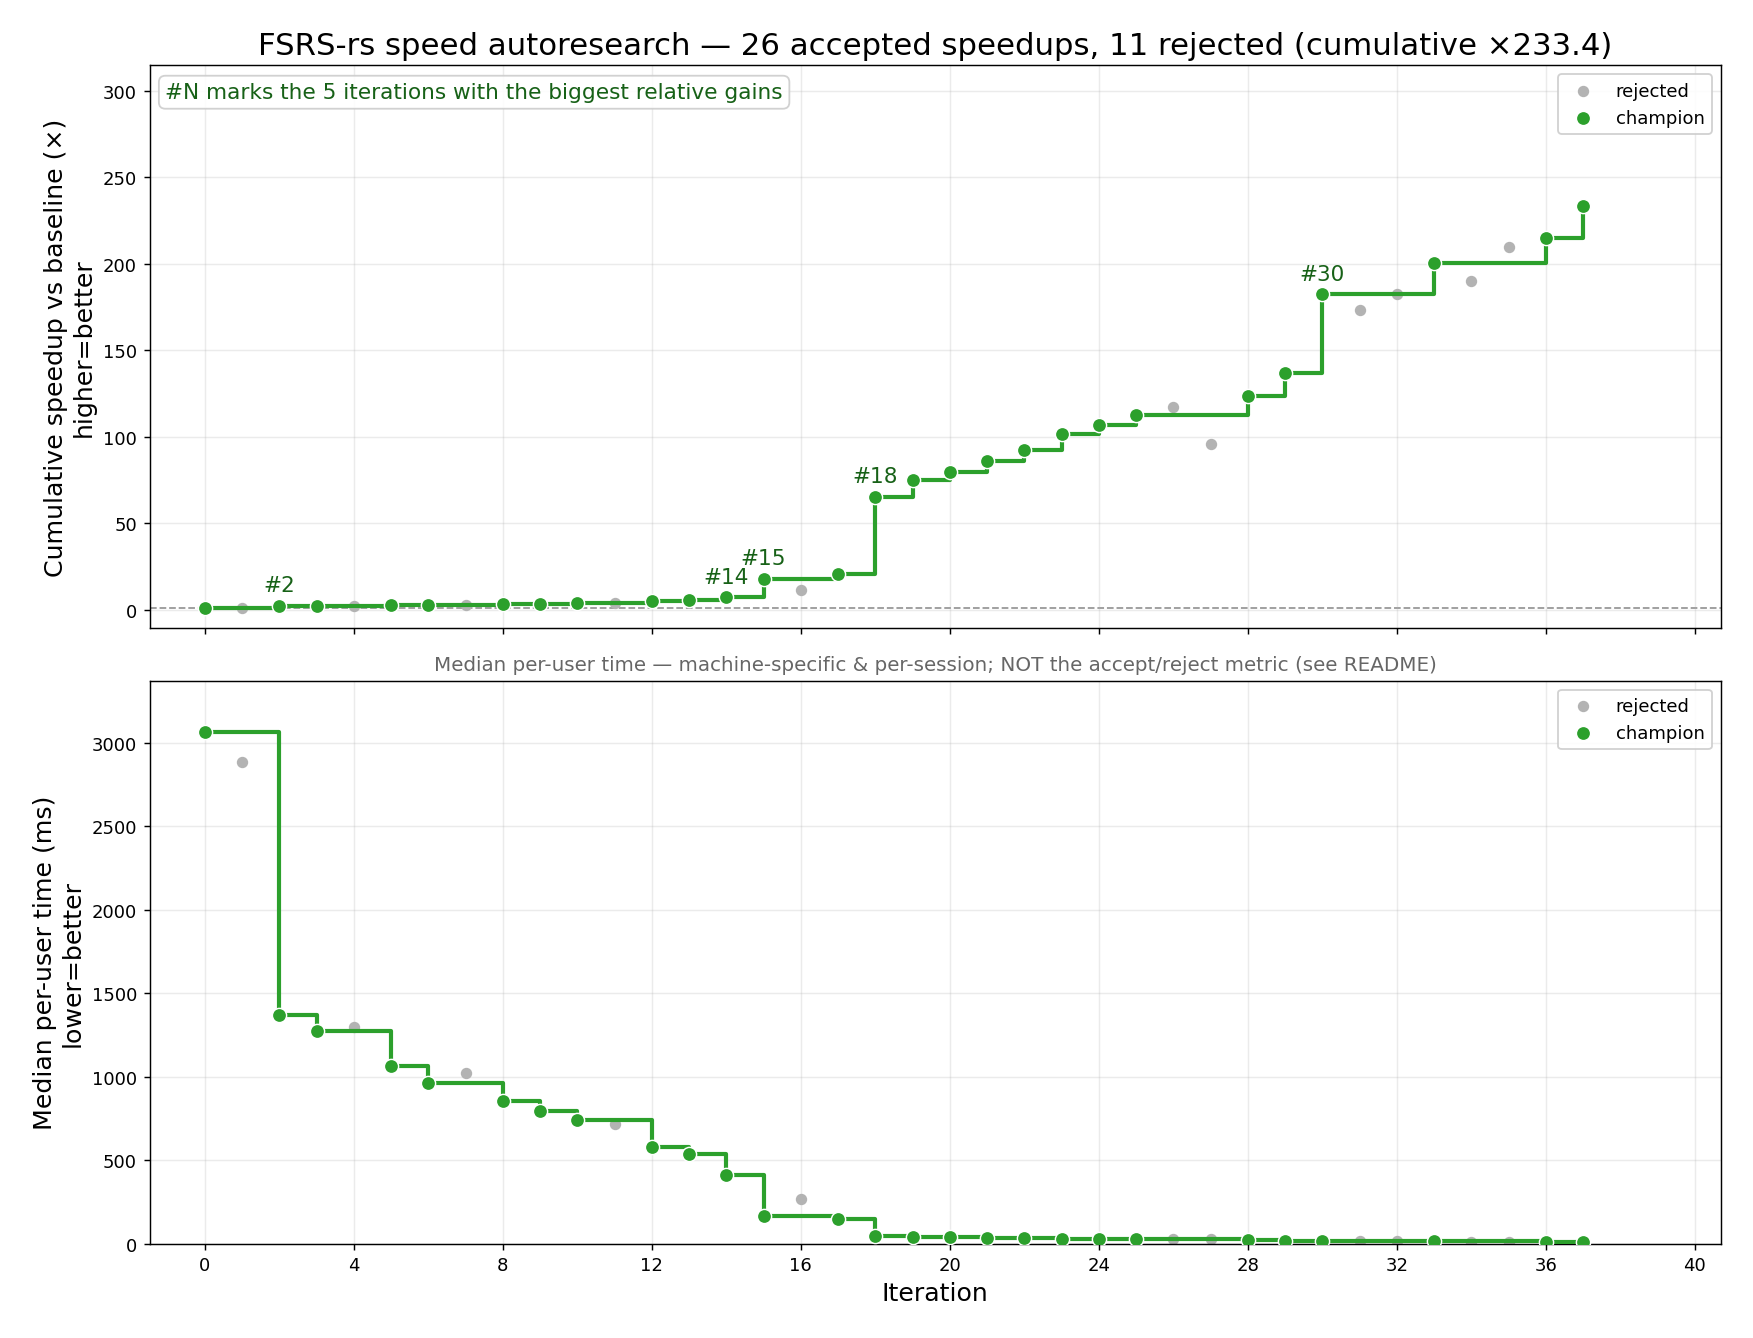
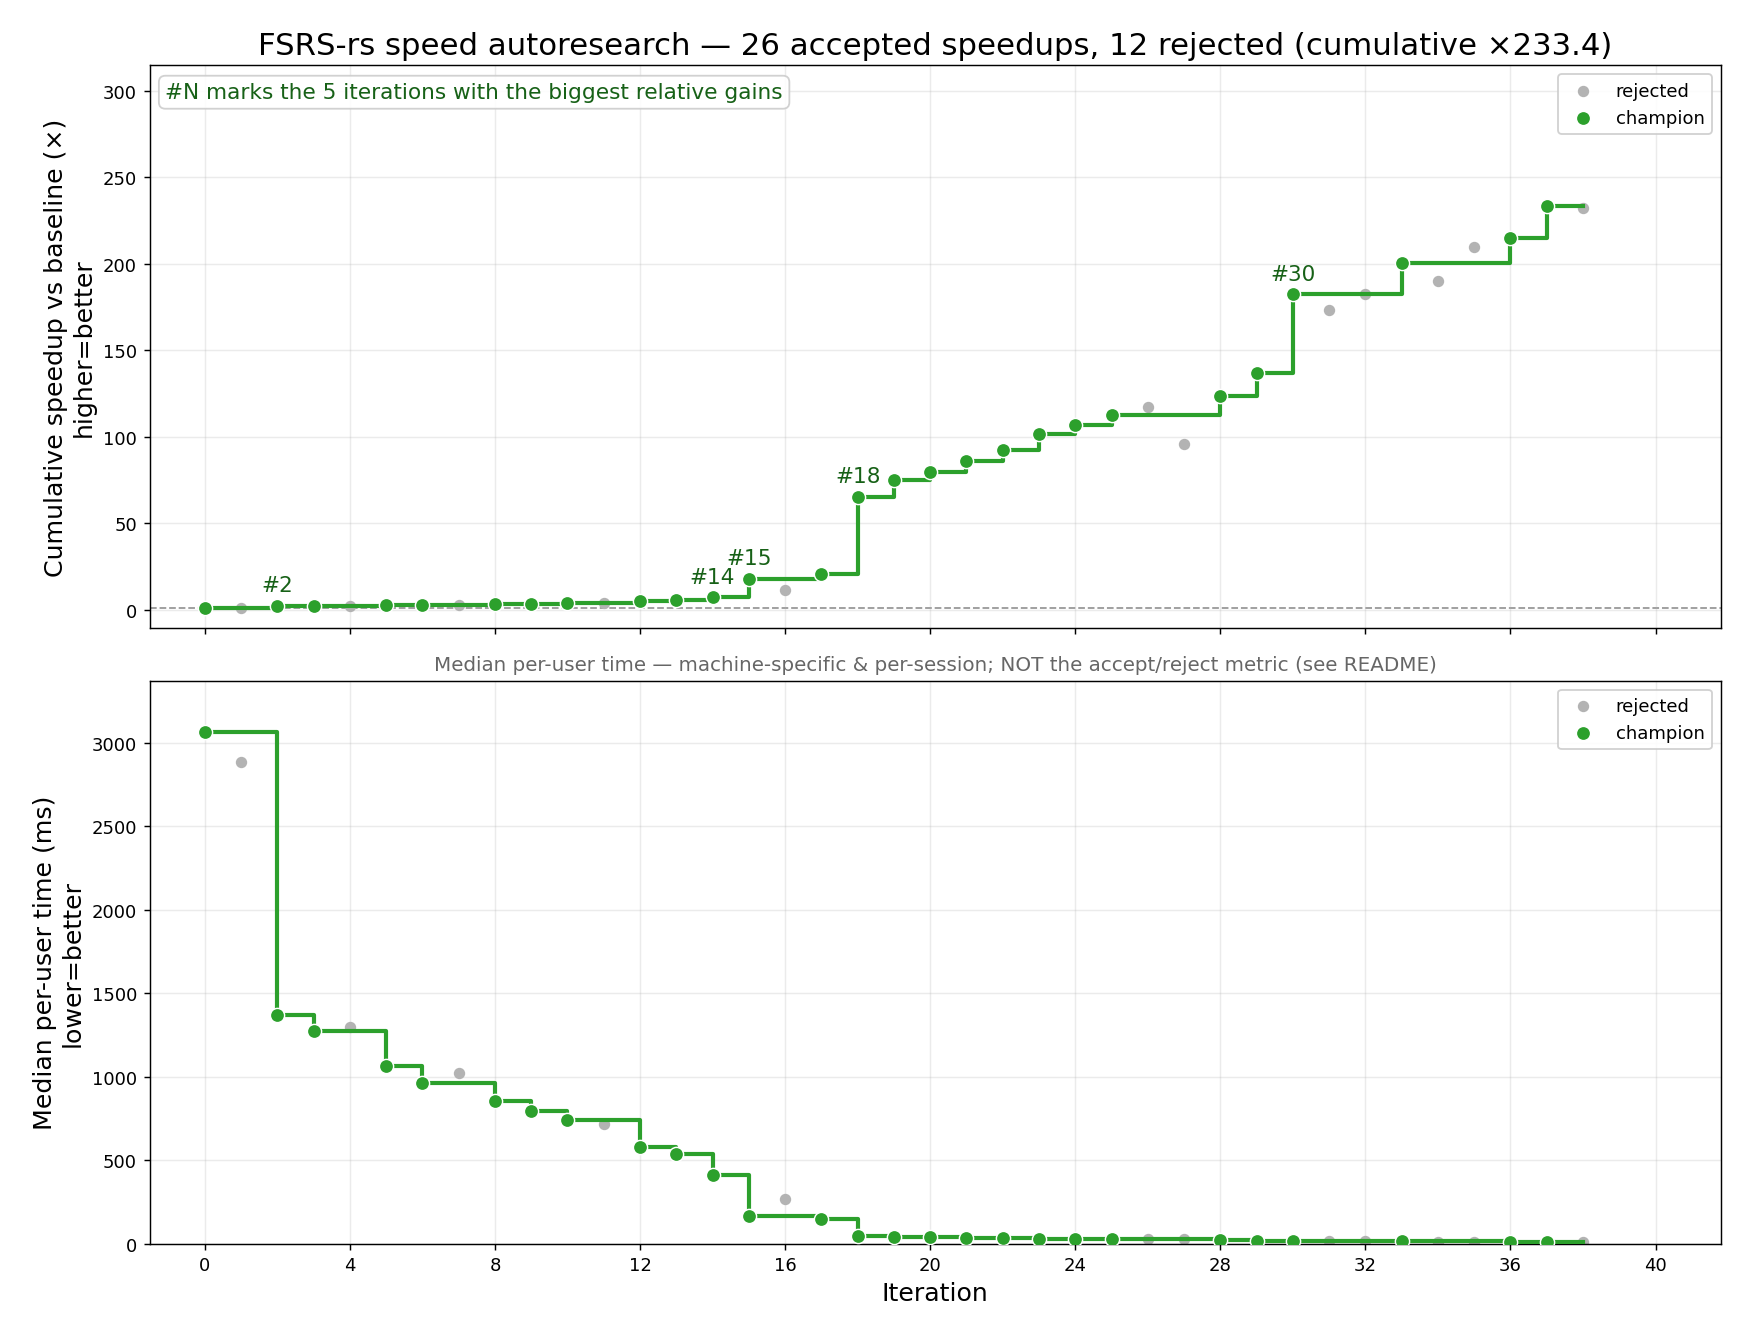
iter38 REJECTED: exp8 exponent-add scaling (no gain)

diff --git a/result/history.md b/result/history.md
@@ -42,6 +42,7 @@ Accept metric: **median per-user speed_ratio ≥ 1.05** (constraint 12) AND **sp
 | 35 | 12 | 12 | 1.046 | 10603 | 10622 | 1.002 | 1.004 | ✓ | rejected | Stack: inline loss-grad helper, one-check load8, cache iterator, drop proven-redundant exp clamps |
 | 36 | 12 | 11 | 1.071 | 10603 | 10616 | 1.001 | 1.003 | ✓ | accepted | iter35 stack plus: skip re-clamping already-clamped states, drop ln8's redundant exponent mask |
 | 37 | 13 | 10 | 1.086 | 10616 | 10775 | 1.015 | 1.038 | ✓ | accepted | Second thread shares each batch's card groups (dynamic claims), also frees the input items |
+| 38 | 12 | 12 | 0.995 | 10775 | 10790 | 1.001 | 1.004 | ✓ | rejected | exp8: add n to the polynomial's exponent bits instead of multiplying by 2^n |
 
 **Cumulative speed_ratio (product of accepted): ×233.361** — upward-biased (winner's curse); anchor periodically vs iter-0 baseline.
 
